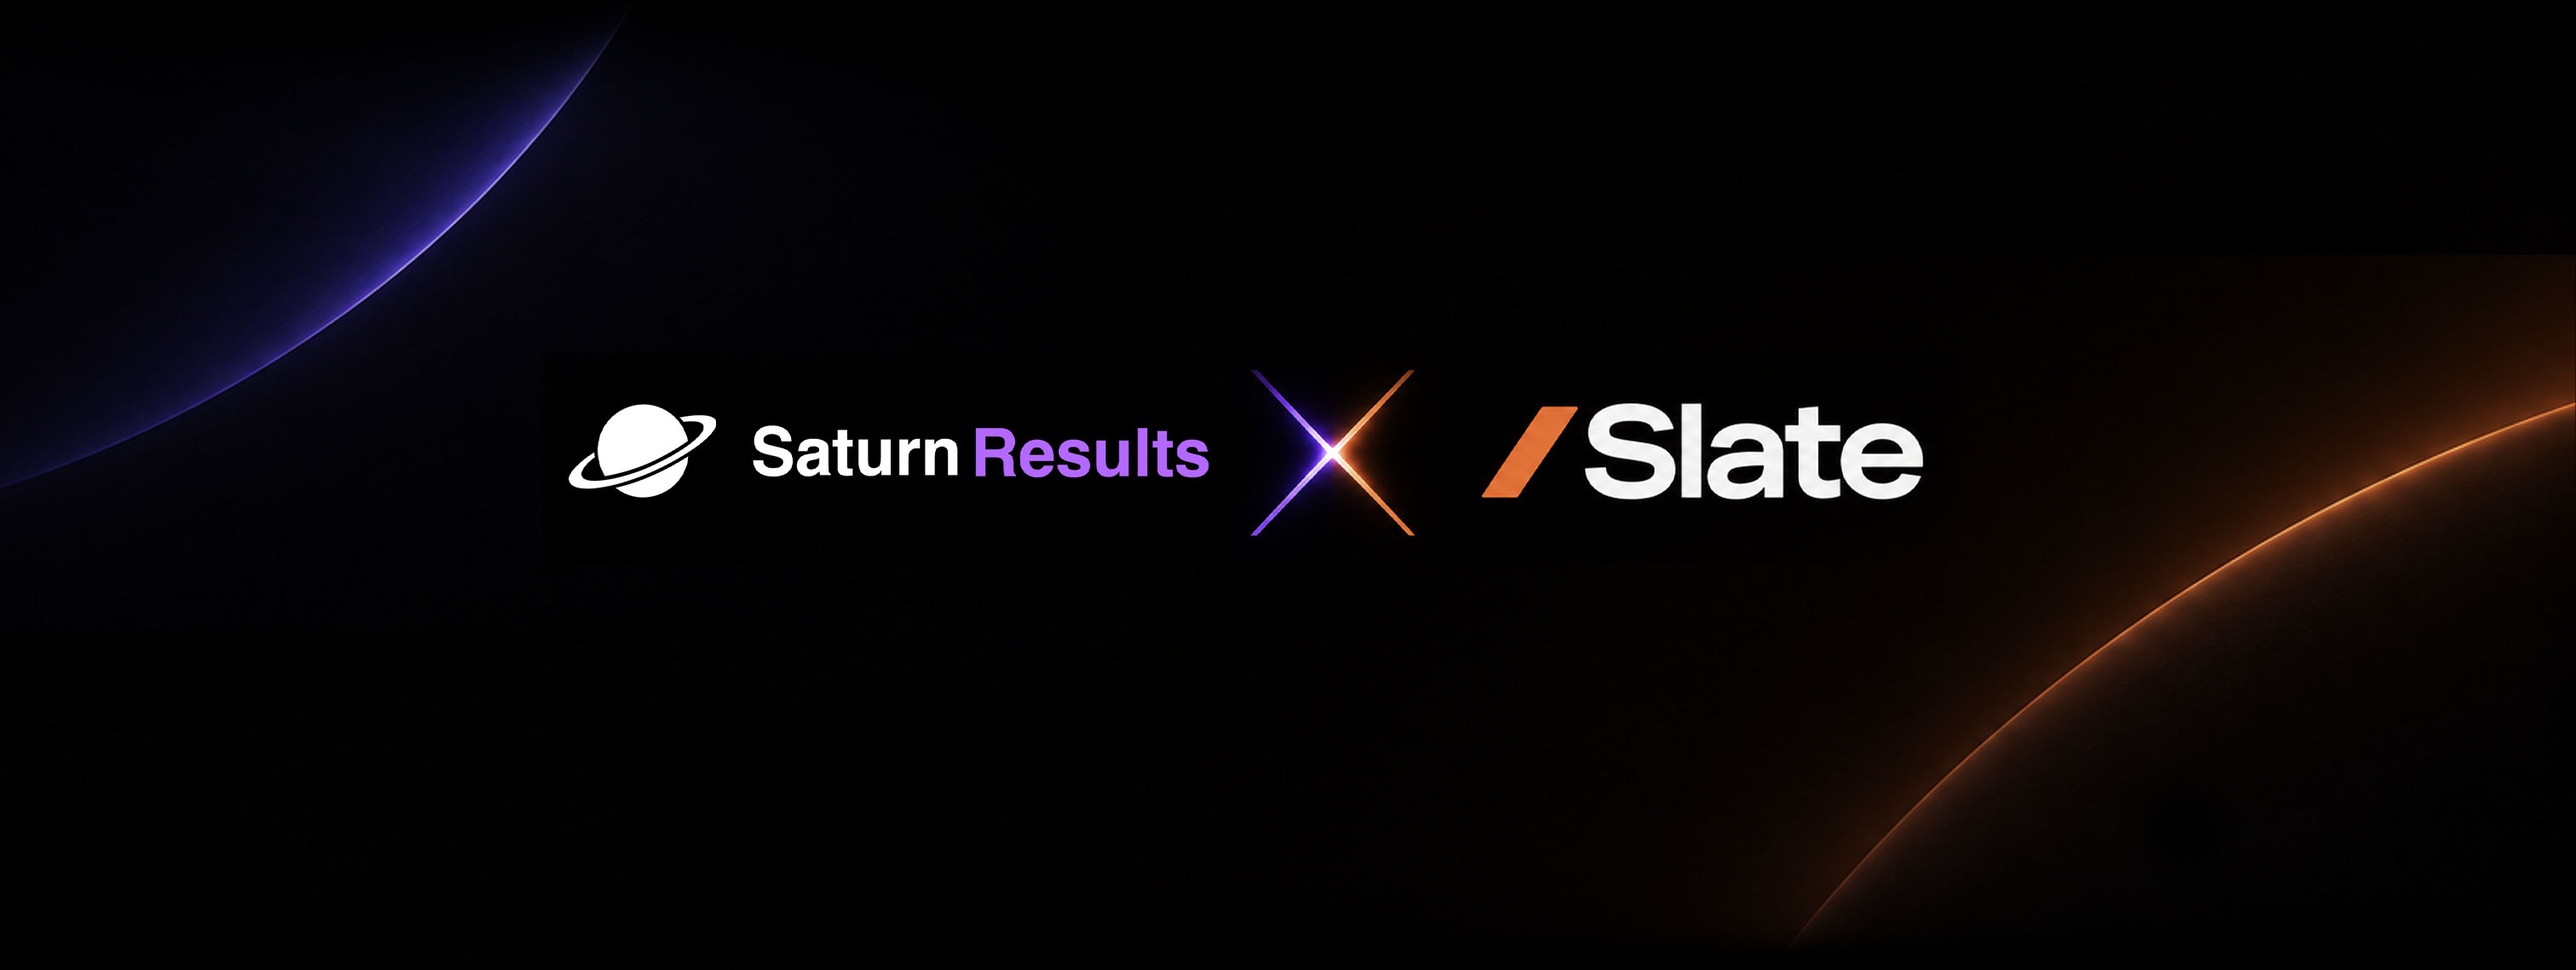
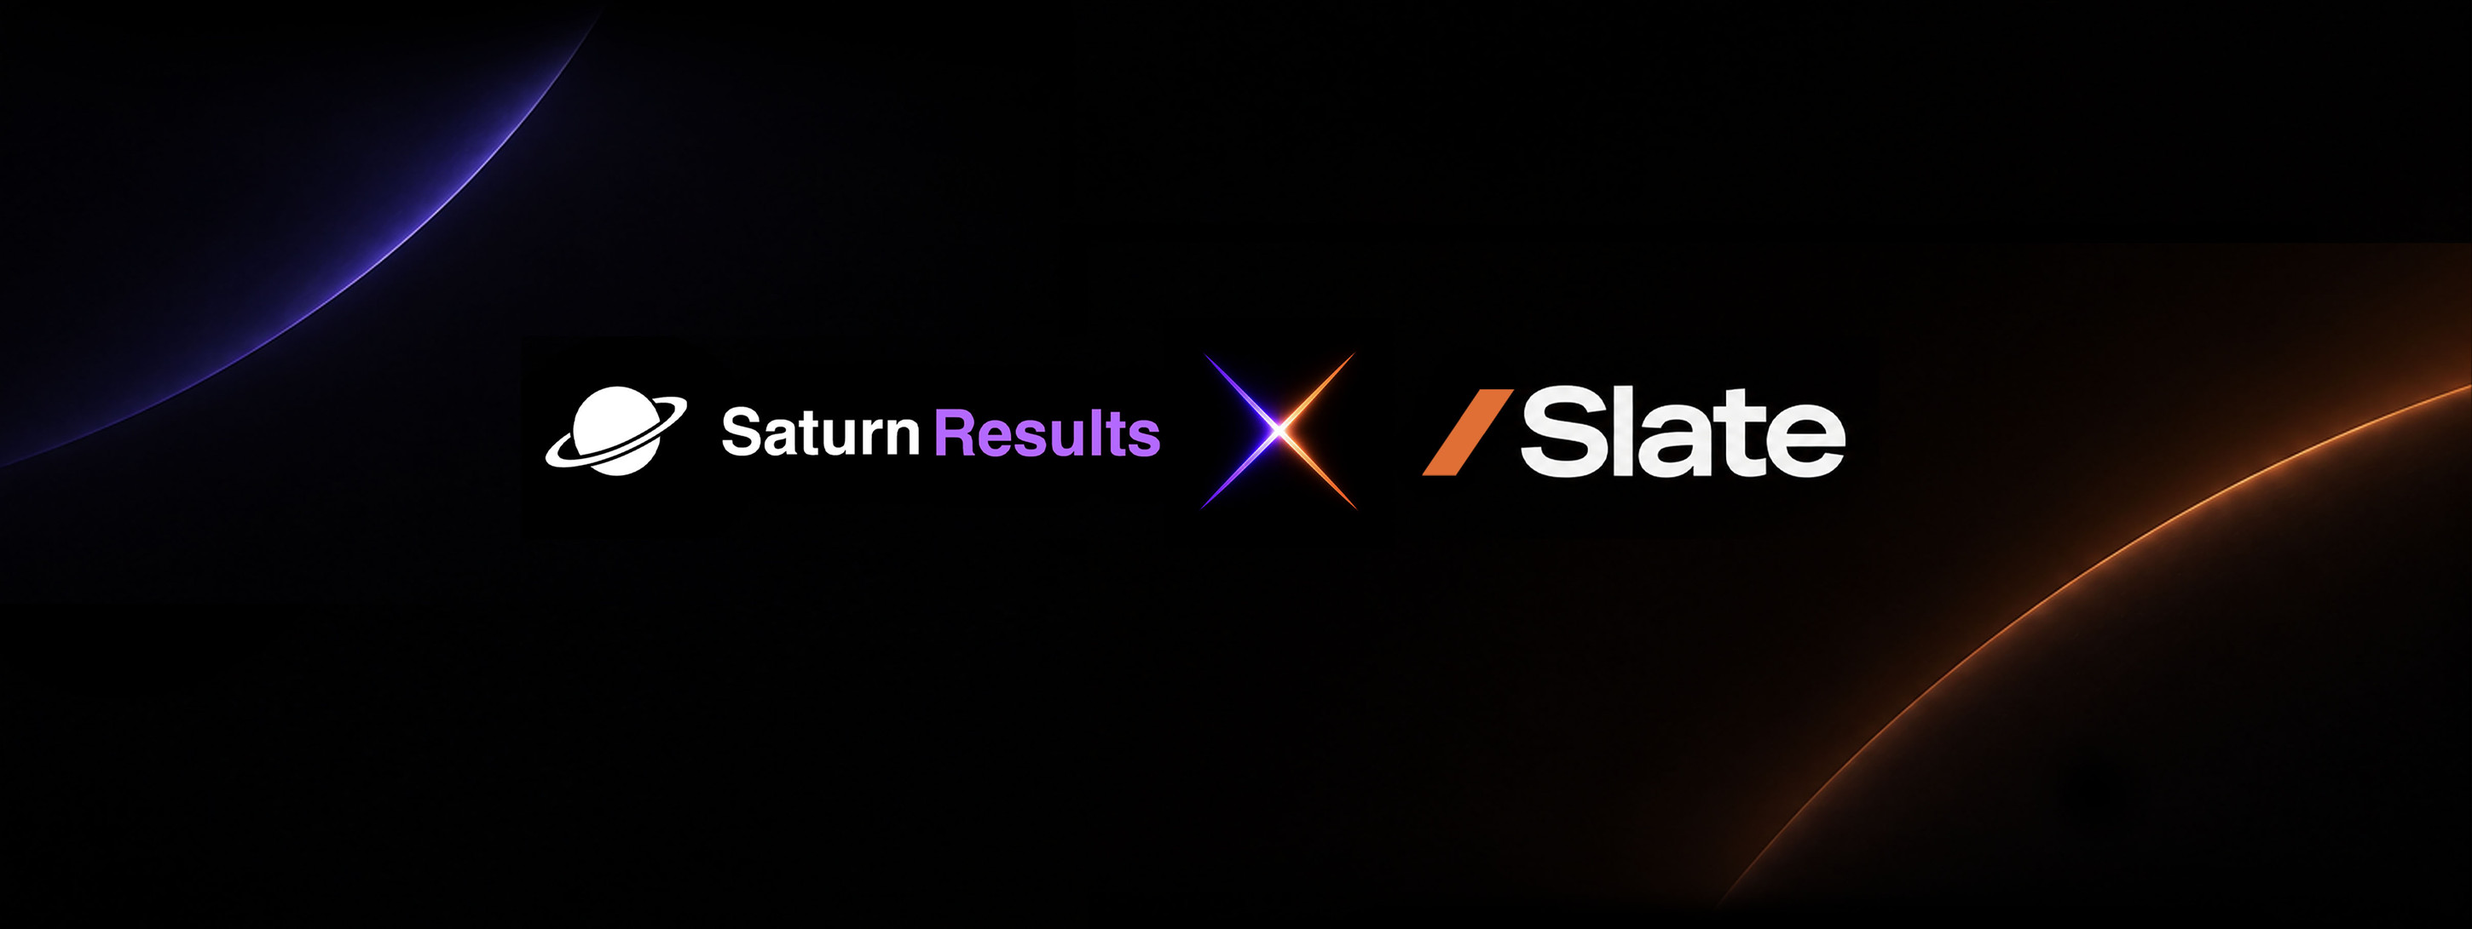
Saturn x Slate: swap lockup to Collab Section 6
Same 2.66:1 shape as Section 5, so the layout is unchanged.

Two fixes applied to the source on the way in. Row 0 of the export was
(11,11,11) rather than black, which screen blending lifts to (16,16,17)
against a (5,5,6) page and would have drawn a hairline across the full
width; the top two rows are cropped. And the file was 4827px wide when
the image never renders above ~2850 even on a retina display, so it is
resized to 2900px. 162KB, and the ratio is unchanged to three decimals.

width and height attributes updated to match.

diff --git a/index.html b/index.html
@@ -459,7 +459,7 @@ body{
 <!-- SATURN x SLATE -->
 <section class="collab">
   <div class="collab__art reveal">
-    <img src="/saturn-x-slate.jpg" width="3022" height="1138" loading="lazy"
+    <img src="/saturn-x-slate.jpg" width="2900" height="1091" loading="lazy"
          alt="Saturn Results and Slate brand lockup">
   </div>
 
